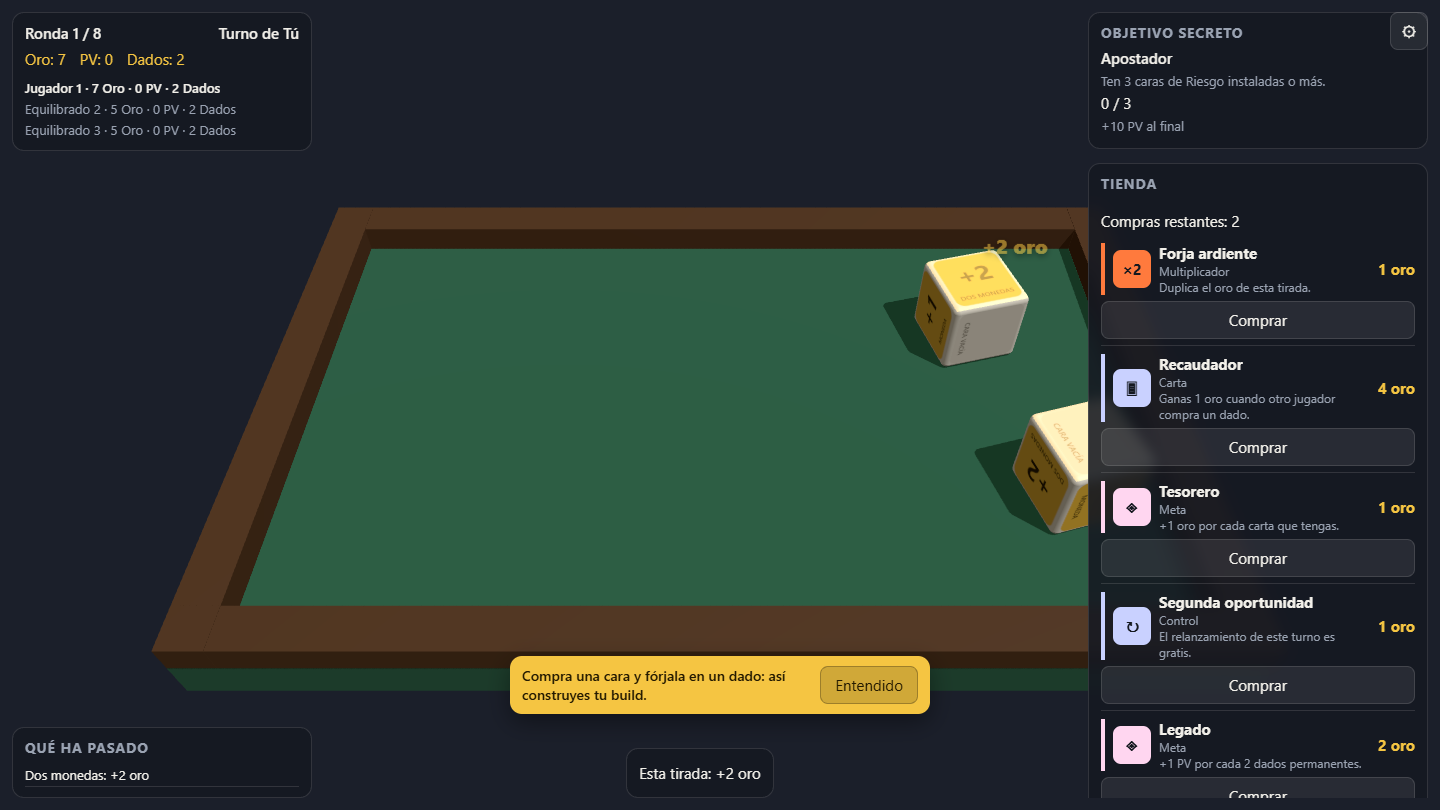
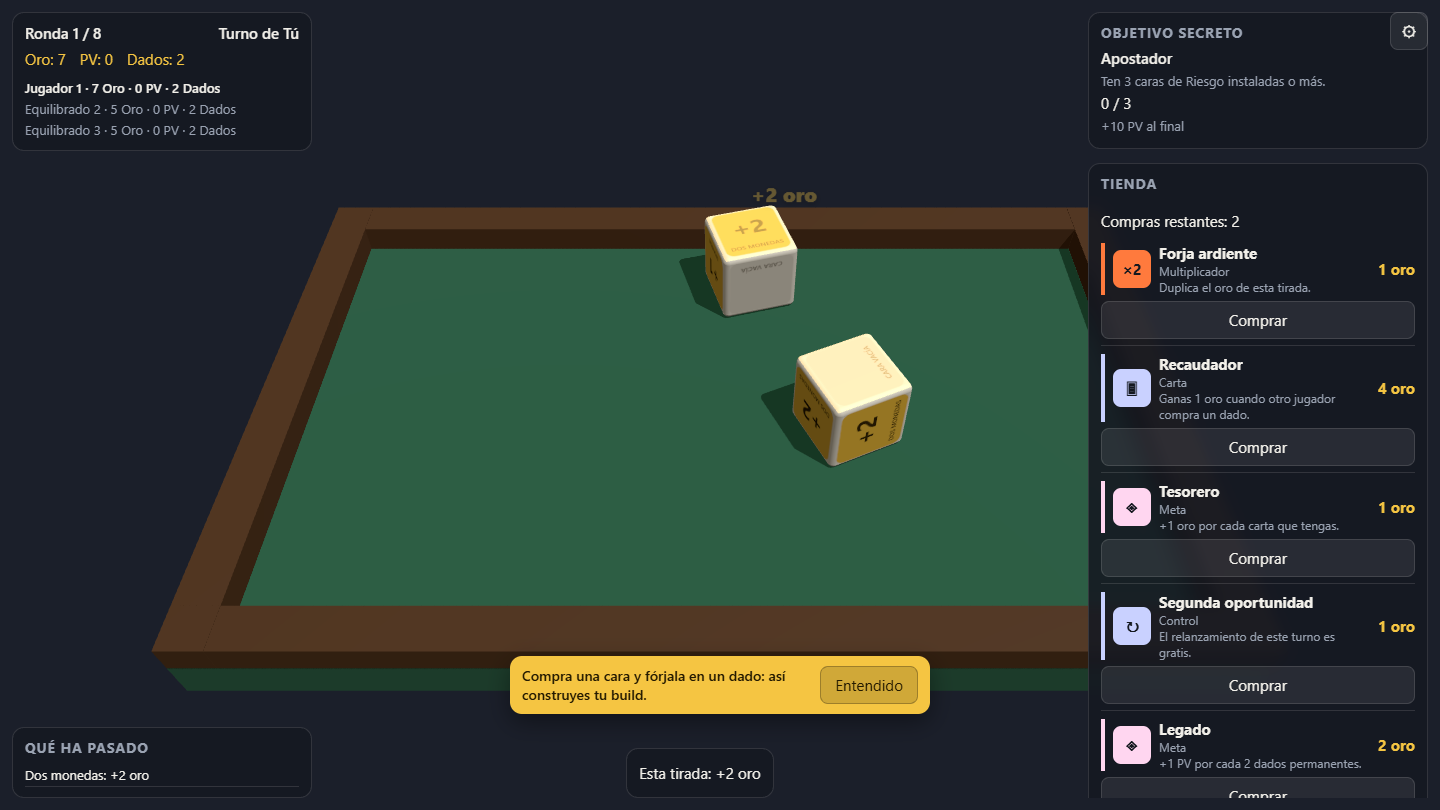
docs(SETUP.2): capturas de producción en el README

Changed region(s): [[0.5312, 0.2778, 0.7188, 0.5864], [0.6562, 0.4938, 0.7812, 0.679], [0.4688, 0.216, 0.5625, 0.4012]]

diff --git a/README.md b/README.md
@@ -8,6 +8,8 @@ compra cartas y dados y cierra objetivos secretos en 8 rondas. Sin backend, sin 
 Contra 1-3 bots (cinco arquetipos) o en hot-seat con hasta 4 humanos. La simulación decide el
 resultado de cada tirada y la física solo lo representa: los dados nunca "roban" la partida.
 
+![Tirada resuelta con la tienda abierta](docs/screenshot-tirada.png)
+
 ## Desarrollo
 
 ```bash
